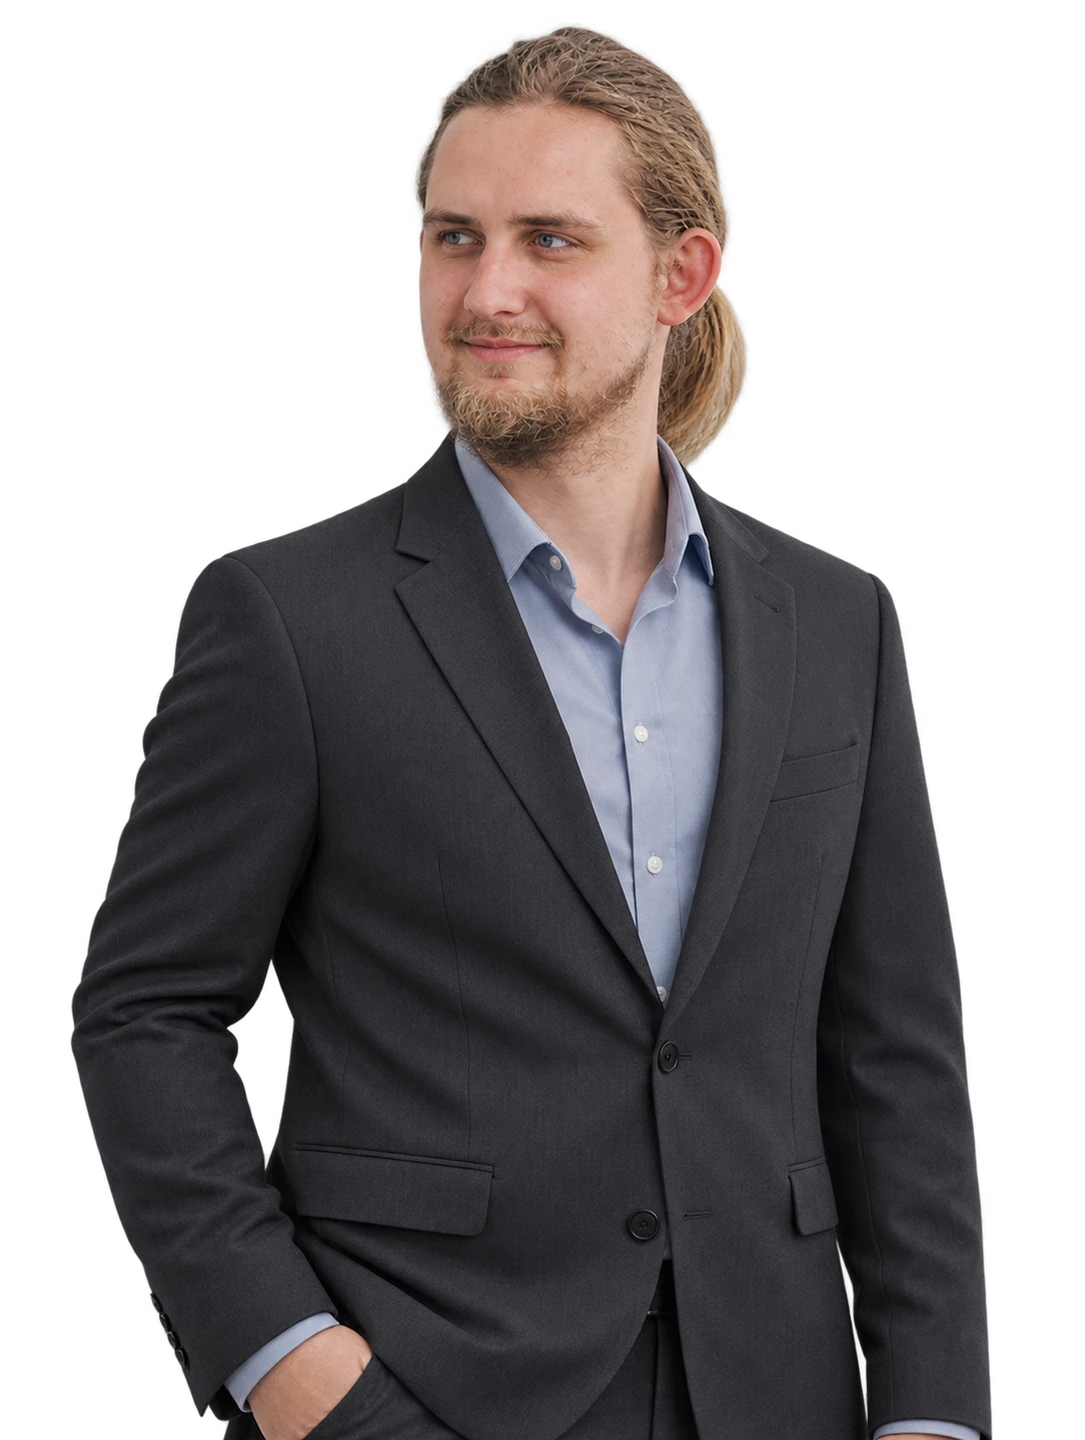
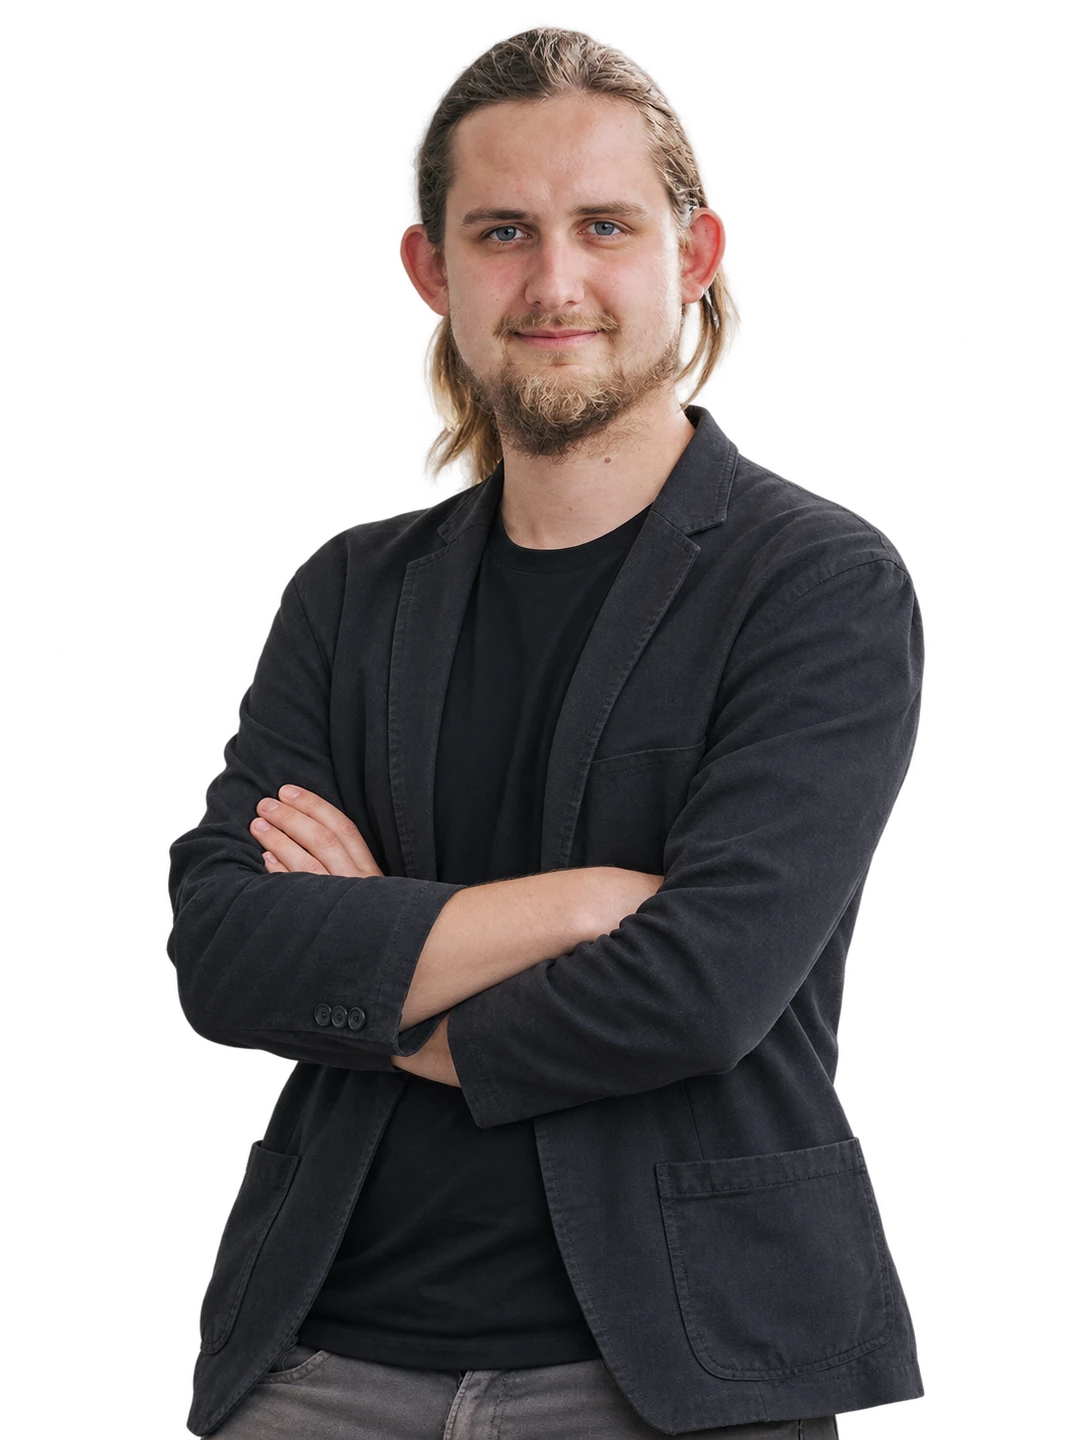
Restore approved Jiri portrait and recreate relaxed Pavol portrait

diff --git a/specs/new-pages-quality.md b/specs/new-pages-quality.md
@@ -18,7 +18,7 @@ Kalkulačka zůstává výraznou samostatnou kartou s popsaným přínosem a obd
 
 ## Zakladatelé a firma
 
-Úprava fotografií z 11. listopadu 2026 používá ve sdílených kartách sladěné průhledné portréty `jiri-jahn-studio.webp` a `pavol-hejny-studio.webp`. Navazující zadání obléká oba do obleků a otáčí je zrcadlově dovnitř: Jiří vlevo směřuje doprava, Pavol vpravo doleva. Jiří má modrý obchodní oblek s kravatou; Pavol antracitový oblek a modrou košili s otevřeným límcem bez kravaty pro technickou roli. Světlo, barevnost a měřítko jsou sjednocené, podoba obou zůstává zachovaná. Obě jazykové verze a marketingové podstránky používají stejnou dvojici.
+Nejnovější oprava fotografií z 11. listopadu 2026 vrací Jiřího první schválený `jiri-jahn-studio.webp` z commitu `4f276a7d`, beze změny jeho modrého obleku, kravaty, výrazu a postoje se založenýma rukama. Pozdější přegenerovaný portrét se nepoužívá. Nově vytvořený je pouze `pavol-hejny-studio.webp`, podle Pavolových skutečných fotografií z osobního webu a GitHubu. Zachovává jeho podobu a dlouhé stažené vlasy; pro méně formální technickou roli má otevřené antracitové sako přes jednoduché černé tričko. Uvolněný postoj se založenýma rukama zrcadlí původního Jiřího, s trupem mírně doleva a tváří téměř k fotoaparátu. Měkké světlo, průhledné okraje a měřítko hlav jsou sladěné. Obě jazykové verze a marketingové podstránky používají stejnou dvojici.
 
 Pavol Hejný a Jiří Jahn jsou rovnocenní spoluzakladatelé. Oba mají stejnou vizuální prioritu, větší skutečný portrét, jméno, roli a ověřený e-mail/telefon. Jiřího jméno a role jsou na mobilu zarovnané doprava stejně jako kontakty. Jiří je vlevo od svého textu; Pavol vpravo od svého textu. Karty jsou zrcadlově uspořádané a spodní okraje portrétů lícují se spodní hranou karet. Jednoduchý nadpis „Kontakt“ nahrazuje větu „Za Promptbookem stojíme oba“. Pavol: technologie; Jiří: obchod. Jediné jméno v konfiguraci SLA nesmí znamenat jediného zakladatele na webu.
 

diff --git a/businesses/new/AGENTS.md b/businesses/new/AGENTS.md
@@ -20,7 +20,7 @@ Comparisons need primary sources and a review date. Do not deny competitors' aut
 
 Present both founders equally with larger, bottom-aligned cutout portraits and verified email/phone contacts. Jiří’s portrait is on the left of his text; Pavol’s portrait is on the right of his text. The cards mirror one another, and portraits meet the bottom edge of their cards. Use a simple contact heading instead of a promotional sentence.
 
-The 11 November portrait revision uses the matched `jiri-jahn-studio.webp` and `pavol-hejny-studio.webp` cutouts in the shared Founders cards. Jiří's source is the owner's new navy-suit photograph. The owner's follow-up puts both founders in suits with inward-facing three-quarter poses: Jiří on the left looks right, Pavol on the right looks left. Jiří wears a navy business suit and tie; Pavol wears a charcoal suit and open-collar blue shirt without a tie, reflecting their business and technology roles. Both retain their identity, have neutral soft lighting, clean transparent edges and consistent framing across both languages and all marketing placements.
+The latest 11 November portrait correction restores Jiří's first approved `jiri-jahn-studio.webp` from commit `4f276a7d`, preserving his original navy suit, tie, expression and folded-arm pose. Do not regenerate Jiří or use the later inward-looking replacement. Recreate only `pavol-hejny-studio.webp` from Pavol's real personal-site and GitHub photographs: preserve his facial identity and long tied-back hair, with a less formal open charcoal blazer over a plain black T-shirt. Pavol's relaxed folded-arm pose mirrors Jiří's first portrait, with his torso turned gently left and his face near the camera. Both retain soft natural lighting, transparent edges and consistent head scale and framing across both languages and all marketing placements.
 
 Keep specs, focused tests and public behavior aligned. Never submit test leads to the production contact database.
 
